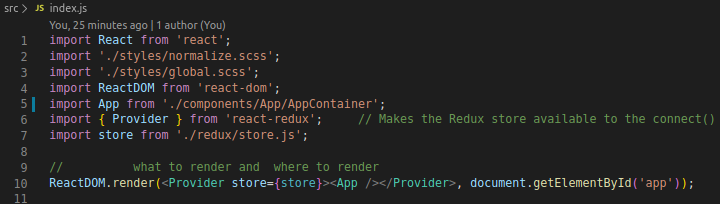
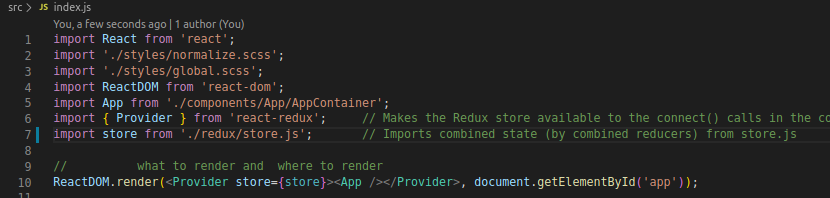
update Readme

Changed region(s): [[0.0, 0.3333, 1.0, 1.0], [0.0306, 0.0909, 0.3972, 0.303], [0.0, 0.0, 0.1222, 0.0606]]

diff --git a/src/index.js b/src/index.js
@@ -4,7 +4,7 @@ import './styles/global.scss';
 import ReactDOM from 'react-dom';
 import App from './components/App/AppContainer';
 import { Provider } from 'react-redux';     // Makes the Redux store available to the connect() calls in the component hierarchy below.
-import store from './redux/store.js';
+import store from './redux/store.js';       // Imports combined state (by combined reducers) from store.js
 
 //          what to render and  where to render
 ReactDOM.render(<Provider store={store}><App /></Provider>, document.getElementById('app'));

diff --git a/README.md b/README.md
@@ -19,9 +19,28 @@
 ****
 
 ## 13.3
-Imports flow:
-    `Index.js` imports `Store.js`:
-    ![alt text](./Readme/indexjs.png "import Store.js")
+Flow:
+1. `dataStore.js` contains the props that are unpacked to new objects in `const initialStoreData`
+![alt text](./Readme/datastorejs.png "dataStore.js")
+
+2. `store.js` imports`initialStoreData` and uses it in newly defined const `initialState`
+![alt text](./Readme/storejs.png "store.js")
+
+3. `Index.js` imports `store.js` and through the `Provider` it makes the Redux store available to the connect() calls in the component hierarchy
+![alt text](./Readme/indexjs.png "import Index.js")
+
+4. `App.js` receives props from `store.js` through `Provider`
+![alt text](./Readme/appjs.png "import App.js")
+
+5. `AppContainer.js`
+- imports a component for which it is a container: `App.js`
+- contains const mapStateToProps which contains a fuction that defines binding props with a state
+- exports a `connect` (which is imported from `react-redux`) that returns another function that connect a component with a state according to defined arguments. This returned function is initiated with an argument `App`. A result of function returned by another function is exported and can be used in other components like it was a component `App`.
+In order to share the **subtitle** to the component `App` you just need to add another argument to the arrow function in `mapStateToProps`:
+>title: state.app.title,
+![alt text](./Readme/appcontainerjs.png "import AppContainer.js")
+
+
 
 ## Packages instalation
 1. `npm install` - install all packages configured in package.json
@@ -126,7 +145,7 @@ In order to share the **subtitle** to the component `App` you just need to add a
 
 The `mapStateToProps` returns an object in which:
 - the key is the prop's name (the one that will be available in a component)
-- the value  of the prop\s uses the `state` argument in order to collect proper information from the application state.
+- the value  of the prop's uses the `state` argument in order to collect proper information from the application state.
 ___
 ## Definitions
 **Props_** - properties of element e.g for hour_picker:
